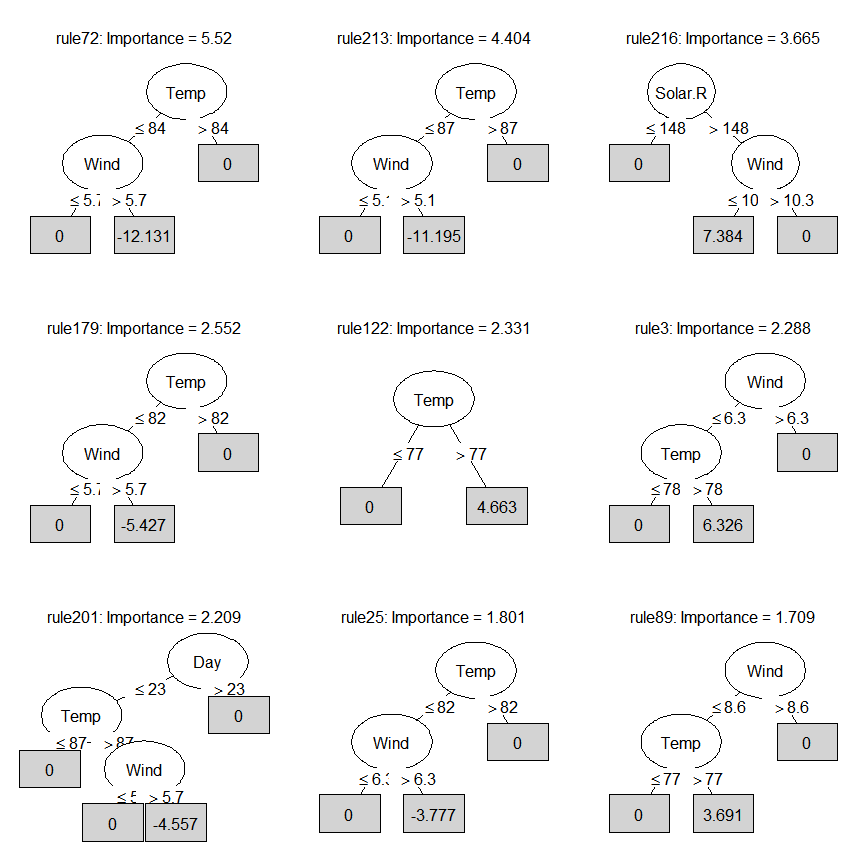
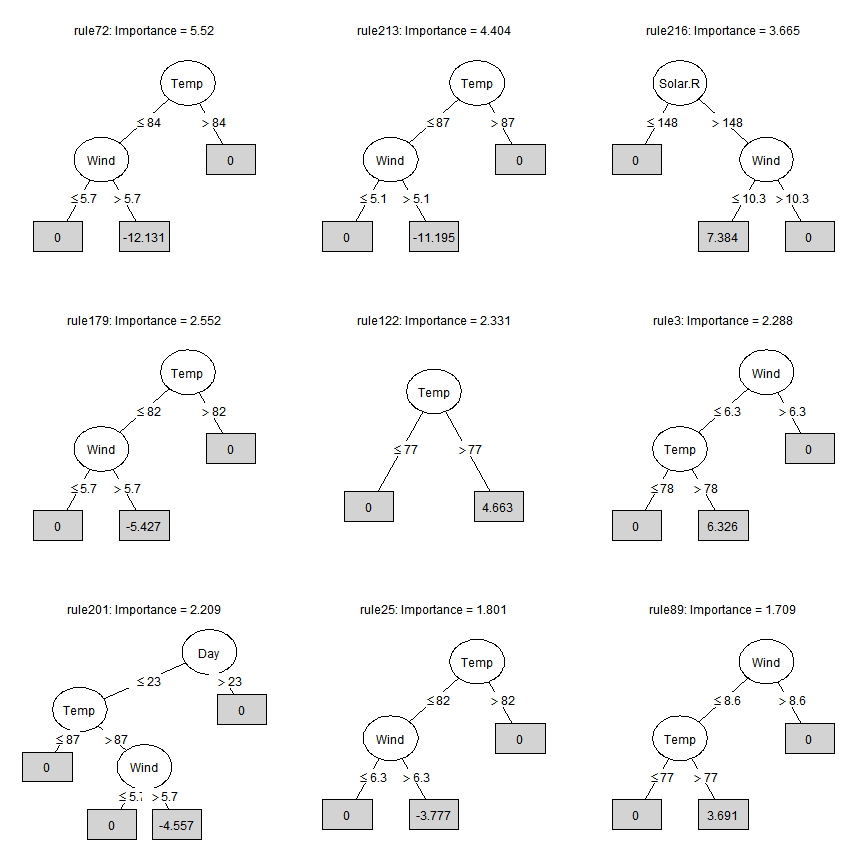
Updated README

diff --git a/README.md b/README.md
@@ -55,10 +55,10 @@ print(airq.ens)
 #>       rule152   -0.01544867          Wind > 6.9 & Solar.R <= 149
 ```
 
-We can plot a subsample of the rules (and or/linear terms) in the ensemble:
+We can plot the rules (and or/linear terms) in the ensemble:
 
 ``` r
-plot(airq.ens, max.terms.plot = 9, cex = .75, penalty = "lambda.1se")
+plot(airq.ens, penalty.par.val = "lambda.1se", max.terms.plot = 9, cex = .6)
 ```
 
 ![](inst/README-figures/README-unnamed-chunk-4-1.png)![](inst/README-figures/README-unnamed-chunk-4-2.png)
@@ -137,13 +137,24 @@ We can generate predictions for new observations:
 airq.preds <- predict(airq.ens, newdata = airquality[1:4,])
 ```
 
-We can assess the effect of a given predictor variable on the outcome through a partial dependence plot:
+We can assess the effect of a single predictor variable on the outcome through a partial dependence plot:
 
 ``` r
 singleplot(airq.ens, varname = "Temp")
 ```
 
 ![](inst/README-figures/README-unnamed-chunk-8-1.png)
+
+We can assess the effect of a par of predictor variables on the outcome through a partial dependence plot:
+
+``` r
+pairplot(airq.ens, varnames = c("Temp", "Wind"))
+```
+
+![](inst/README-figures/README-unnamed-chunk-9-1.png)
+
+    #> NOTE: function pairplot uses package 'akima', which has an ACM license.
+    #>     See also https://www.acm.org/publications/policies/software-copyright-notice.
 
 We can assess the expected prediction error of the ensemble, by default calculated using 10-fold cross validation:
 
@@ -152,10 +163,12 @@ set.seed(43)
 airq.cv <- cvpre(airq.ens)
 airq.cv$accuracy
 #> $MSE
-#> [1] 375.8081
+#>       MSE        se 
+#> 375.80814  85.76707 
 #> 
 #> $MAE
-#> [1] 14.07948
+#>       MAE        se 
+#> 14.079477  1.270563
 ```
 
 More complex prediction ensembles can be derived with the gpe() function. The abbreviation gpe stands for generalized prediction ensembles, which in addition to rules and linear terms may also include hinge functions of the predictor variables Friedman (1991). Addition of hinge functions may improve predictive accuracy (but may also reduce interpretability).
